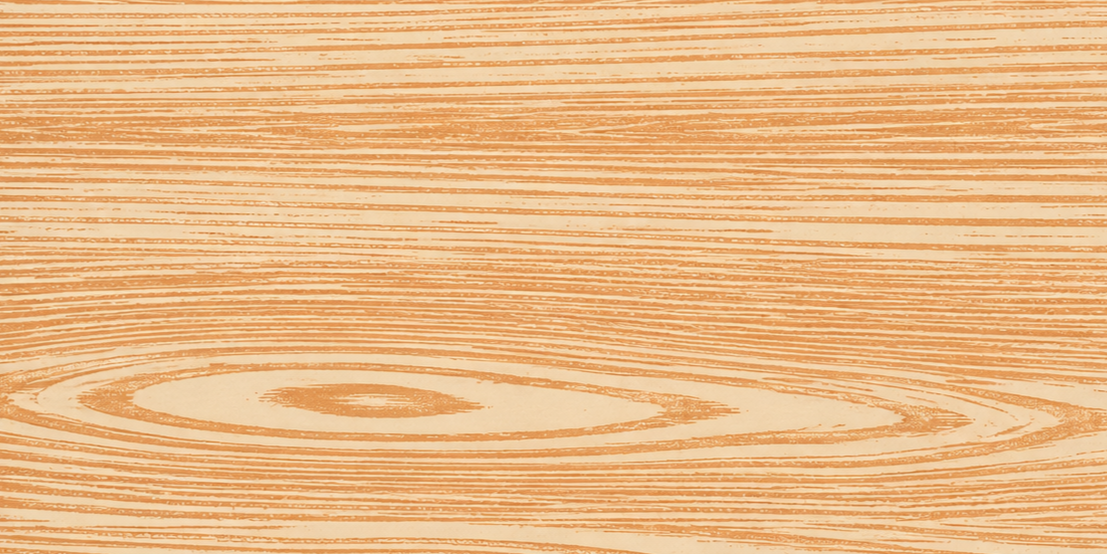
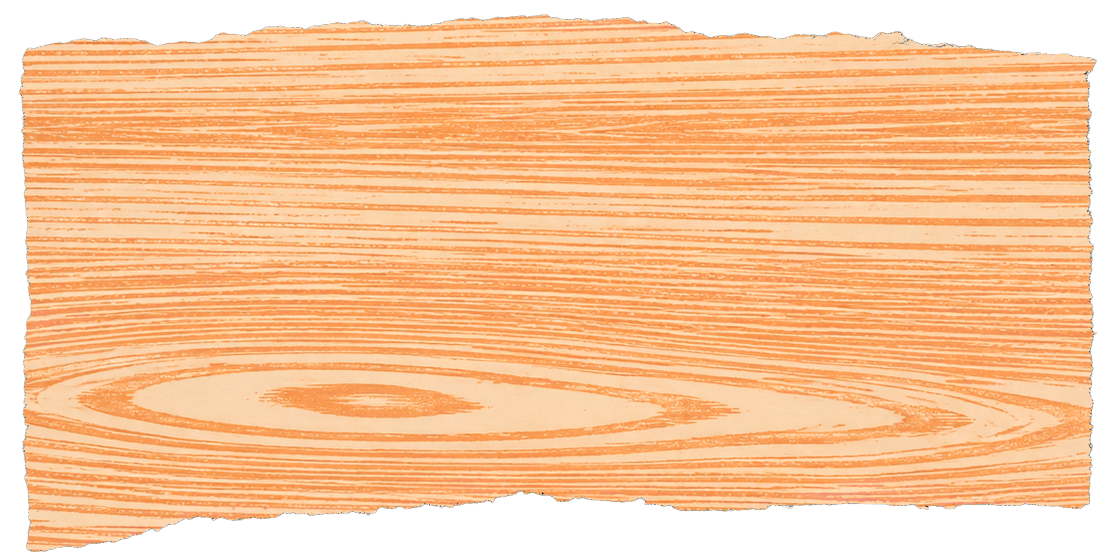
cambio de imagenes

Changed region(s): [[0.0, 0.0, 1.0, 1.0]]

diff --git a/css/styles.css b/css/styles.css
@@ -1753,8 +1753,7 @@ body::after {
   overflow: hidden;
   width: 100vw;
   margin-left: calc(50% - 50vw);   /* full-bleed: llega a los extremos */
-  padding: 40px 0;
-  background: #0A0A0A;             /* fondo negro para que resalte el canto rasgado crema */
+  padding: 34px 0;
   display: flex;
   flex-direction: column;
   gap: 1rem;
@@ -1775,7 +1774,7 @@ body::after {
 .madera-card {
   flex: 0 0 auto;
   width: clamp(240px, 22vw, 310px);
-  margin-right: 1.1rem;   /* separación uniforme (deja lugar al canto rasgado); loop exacto */
+  margin-right: 2.75rem;   /* separación amplia para que los cantos rasgados no se pisen; loop exacto */
   perspective: 1200px;
   cursor: pointer;
   outline: none;
@@ -1791,32 +1790,8 @@ body::after {
 /* Sin número en las tarjetas de madera */
 .madera-num { display: none; }
 
-/* Recuadro de papel rasgado (igual que las cards de CONTRA LO PREFABRICADO) */
-.madera-card-front,
-.madera-card-back {
-  overflow: visible;
-  border: none;
-  border-radius: 0;
-}
-.madera-card-front::before,
-.madera-card-back::before {
-  content: '';
-  position: absolute;
-  inset: -10px;
-  background: var(--cream);
-  filter: url(#paper-rip);
-  box-shadow: 0 20px 46px rgba(0,0,0,0.5);
-  z-index: 0;
-}
-/* Dorso: papel rojo rasgado */
-.madera-card-back::before {
-  background: linear-gradient(150deg, #e60a0a 0%, var(--red) 45%, #9c0000 100%);
-  box-shadow: 0 20px 48px rgba(0,0,0,0.55), 0 0 40px rgba(229,0,0,0.4);
-}
-/* Contenido por encima del papel */
-.madera-card-front img { position: relative; z-index: 1; }
-.madera-card-back h4,
-.madera-card-back p { position: relative; z-index: 1; }
+/* El papel rasgado viene en la propia imagen (PNG), sin efecto CSS */
+.madera-card-front { background: transparent; border: none; }
 
 .madera-card-front,
 .madera-card-back {
@@ -1824,16 +1799,13 @@ body::after {
   inset: 0;
   backface-visibility: hidden;
   -webkit-backface-visibility: hidden;
-  border-radius: var(--radius);
-  overflow: hidden;
-  border: 1px solid rgba(0,0,0,0.12);
 }
 
-/* Cara frontal: foto de la madera */
+/* Cara frontal: imagen de la madera (con papel rasgado propio, PNG) */
 .madera-card-front img {
   width: 100%;
   height: 100%;
-  object-fit: cover;
+  object-fit: contain;   /* muestra la imagen completa sin recortar los bordes rasgados */
   transition: transform 0.5s ease;
 }
 .madera-card-front .madera-num {
@@ -1849,20 +1821,19 @@ body::after {
   position: absolute;
   left: 0; right: 0; bottom: 0;
   z-index: 2;
-  padding: 1.25rem 0.85rem 0.7rem;
+  padding: 0.9rem 1rem;
   font-family: var(--ff-display);
   font-size: 1.4rem;
   letter-spacing: 0.04em;
   text-transform: uppercase;
-  color: #fff;
-  background: linear-gradient(to top, rgba(0,0,0,0.78), transparent);
+  color: #0A0A0A;
 }
 
 /* Cara trasera: descripción sobre fondo rojo */
 .madera-card-back {
   transform: rotateY(180deg);
   background: linear-gradient(155deg, #e60a0a 0%, var(--red) 45%, #a80000 100%);
-  border-color: var(--red);
+  border-radius: var(--radius);
   display: flex;
   flex-direction: column;
   justify-content: center;
